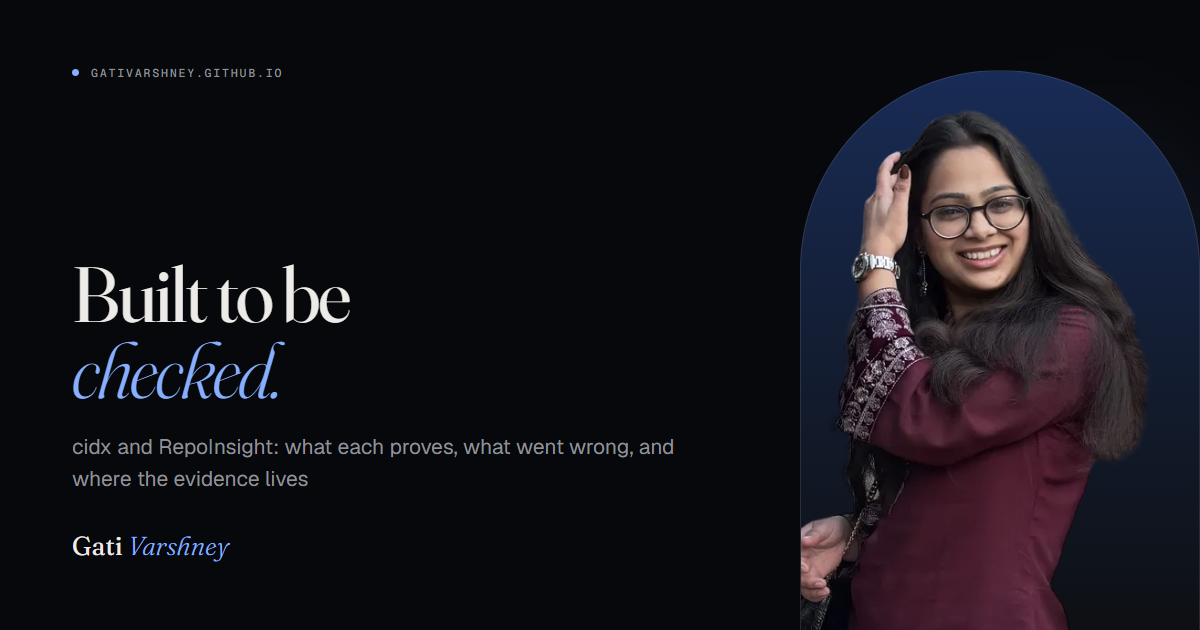
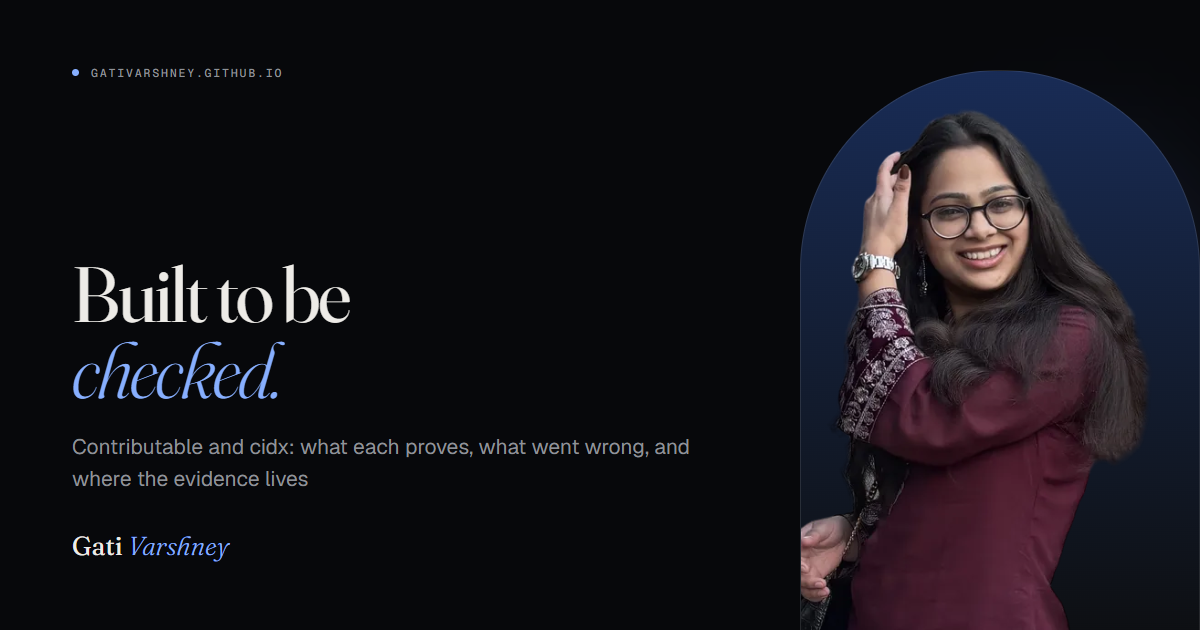
Rename RepoInsight to Contributable (new URL, repository and current facts) and list it before cidx

Changed region(s): [[0.0617, 0.6937, 0.5858, 0.7238]]

diff --git a/src/data/casestudies.ts b/src/data/casestudies.ts
@@ -1,7 +1,7 @@
 /**
  * Long-form case-study content. Every number here traces to a linked source.
  * Sources: cidx README, ARCHITECTURE.md, DECISIONS.md, CHANGELOG.md, docs/verification.md;
- * GSoC 2026 final report on Medium; OpenPrinting PRs #224, #230, #236; the RepoInsight README and source.
+ * GSoC 2026 final report on Medium; OpenPrinting PRs #224, #230, #236; the Contributable README and source.
  */
 export type Row = { claim: string; value: string; context: string; source: { label: string; href: string } };
 export type Block = { title: string; body: string };
@@ -19,7 +19,7 @@ export type CaseStudy = {
 };
 
 const CIDX = 'https://github.com/gativarshney/cidx';
-const RI = 'https://github.com/gativarshney/repoinsight';
+const RI = 'https://github.com/gativarshney/contributable';
 const OP = 'https://github.com/OpenPrinting/openprinting.github.io/pull/';
 const REPORT = 'https://medium.com/@gativarshney/gsoc-2026-final-report-ai-driven-printer-compatibility-recommendation-portal-9283d6fe2a5c';
 const STAGING = 'https://github.com/rudra-iitm/openprinting.github.io/pull/';
@@ -84,63 +84,65 @@ export const caseStudies: Record<string, CaseStudy> = {
     lastVerified: '2026-09-16',
   },
 
-  repoinsight: {
-    slug: 'repoinsight',
+  contributable: {
+    slug: 'contributable',
     problem: [
-      'Before a first pull request, a contributor has to guess what a project is like. Is anyone replying? Do pull requests from outside the team get merged? Is there something small to start on? Finding out usually means clicking through commits, contributors, releases, issues and pull requests and forming an impression.',
-      'RepoInsight reads the same public data and answers those questions directly. It is deliberately not a chatbot, and it does not produce a health score. Every number is calculated by a fixed rule, and every answer can be opened to show what was observed, the formula, why it matters, and what it does not prove.',
+      'Before a first pull request, a contributor has to guess what a project is like. Is anyone replying? Do pull requests from outside the team get merged? Is there something small to start on? Finding out usually means clicking through commits, issues and pull requests and forming an impression.',
+      'Contributable reads the same public data and answers the questions a contributor is advised to ask first. It is deliberately not a chatbot, not a GitHub clone, and it does not produce a health score. Every answer is calculated by a fixed rule and shows how it was worked out.',
     ],
     pipeline: {
-      title: 'From a pasted URL to an answer with its evidence',
+      title: 'From a pasted URL to an answer you can check',
       steps: [
-        'A small client talks to the GitHub REST API: an auth header when a server token exists, error mapping, pagination headers. Fetchers call eleven endpoints, in parallel where they are independent, and normalise the responses into typed records that carry their own coverage: complete, or covered since a date.',
-        'Analysis functions are pure. They take structured input plus an explicit “now”, with no React and no network, so the same dataset always produces the same numbers and every function can be tested on its own.',
-        'A checklist of ten questions, taken from GitHub’s Open Source Guide, is answered from those numbers. Each has a stated threshold, and where the data cannot decide, the answer is “unknown” rather than a guess.',
-        'A report runner orchestrates the requests, caches finished reports so a popular repository costs GitHub requests once, and emits progress events.',
-        'The analyze endpoint streams those events to the browser as newline-delimited JSON, so the loading screen shows one line per real request group instead of a spinner.',
-        'The report leads with the checklist, then starter issues, where outside pull requests ended up, the maintainers who reply, when they are usually around in the reader’s time zone, and a 3D skyline drawn from the repository’s real daily commit counts.',
+        'A small client talks to the GitHub REST API: error mapping, pagination headers, an auth header when a server token exists. Fetchers call twelve endpoints, in parallel where they are independent, and normalise the responses into typed records that carry their own coverage: complete, or covered since a date.',
+        'Analysis functions are pure. They take structured input plus an explicit “now”, with no React and no network, so the same dataset always gives the same result and every function can be tested alone. Because they run wherever fetch does, the browser can take over from the server.',
+        'A checklist of ten questions, taken from GitHub’s Open Source Guide, is answered from those numbers. Each has one fixed rule printed in the report, and there are three answers: yes, no, and not enough data.',
+        'A report runner orchestrates the requests and emits progress events.',
+        'The analyze endpoint caches finished reports for an hour, throttles any one address, and streams events to the browser as newline-delimited JSON, so the loading screen ticks off each real request group instead of showing a spinner.',
+        'The report has seven sections, each answering one question with one chart: the checklist, where to start, what happens to a pull request, who you will work with, when someone will see your question, the codebase, and whether the project is alive, with a 3D skyline of daily commits.',
       ],
       note: 'Calculated, not generated.',
     },
     evidence: [
-      { claim: 'Live, with no sign-in', value: 'repoinsight-app.vercel.app', context: 'paste any public GitHub repository; the visitor is never asked for an account or a token', source: { label: 'open the app', href: 'https://repoinsight-app.vercel.app' } },
-      { claim: 'Test suite', value: '74 tests', context: 'URL parsing, HTTP error mapping, pagination and coverage, and every analysis function including empty and truncated data; passing from a fresh clone on 2026-10-01', source: { label: 'src/lib', href: `${RI}/tree/main/src/lib` } },
-      { claim: 'Contributor checklist', value: '10 questions', context: 'after GitHub’s Open Source Guide; each answered yes, no or unknown against a threshold printed in the report', source: { label: 'checklist.ts', href: `${RI}/blob/main/src/lib/insights/checklist.ts` } },
-      { claim: 'Data read per report', value: '11 GitHub REST endpoints', context: 'about 12 requests for a small repository, up to about 45 for a large one', source: { label: 'README · data sources', href: `${RI}#github-data-sources` } },
+      { claim: 'Live, with no sign-in', value: 'contributable.vercel.app', context: 'paste any public GitHub repository; the visitor is never asked for an account or a token', source: { label: 'open the app', href: 'https://contributable.vercel.app' } },
+      { claim: 'Test suite', value: '118 tests', context: 'unit, integration against a stubbed GitHub, and pipeline tests; CI runs formatting, lint, typecheck, tests and a production build on every push. Passing from a fresh clone on 2026-10-03', source: { label: 'README · testing', href: `${RI}#testing` } },
+      { claim: 'Contributor checklist', value: '10 questions', context: 'after GitHub’s Open Source Guide; each answered yes, no or not enough data against a rule printed in the report', source: { label: 'checklist.ts', href: `${RI}/blob/main/src/lib/insights/checklist.ts` } },
+      { claim: 'Data read per report', value: '12 GitHub REST endpoints', context: 'a small repository costs 11 or 12 requests, plus one for each starter issue checked, four at most', source: { label: 'README · data sources', href: `${RI}#github-data-sources` } },
       { claim: 'Running cost', value: 'no database · no paid API · no AI', context: 'the only limit is GitHub’s free allowance: 60 requests an hour without a token, 5,000 with one', source: { label: 'README · cost and scaling', href: `${RI}#cost-and-scaling` } },
-      { claim: 'Grounded in research', value: '4 cited sources', context: 'newcomer barriers, abandoned pull requests, time to first response, and GitHub’s Open Source Survey, each mapped to something the report measures', source: { label: 'README · for contributors', href: `${RI}#for-contributors` } },
-      { claim: 'Stack', value: 'TypeScript · Next.js 16 · React 19 · three.js', context: '39 commits; deployed on Vercel’s free tier', source: { label: 'commit history', href: `${RI}/commits/main` } },
+      { claim: 'Grounded in research', value: '4 cited sources', context: 'newcomer barriers, abandoned pull requests, time to first response, and GitHub’s Open Source Survey, each mapped to something the report measures', source: { label: 'README · why it exists', href: `${RI}#why-it-exists` } },
+      { claim: 'Stack and licence', value: 'TypeScript · Next.js 16 · React 19 · three.js', context: '54 commits; MIT licence; deployed on Vercel’s free tier', source: { label: 'commit history', href: `${RI}/commits/main` } },
     ],
     decisions: [
-      { title: 'A count of checks, not a health score', body: 'The headline is the number of checks that pass, not a weighted score. A single number would hide which signal is missing; ten yes-or-no answers can each be opened and checked.' },
-      { title: 'Fixed rules, nothing generated', body: 'Every metric is a formula over public data. That makes a report reproducible, testable, and free to run, and it means two people looking at the same repository see the same answer.' },
-      { title: 'Evidence in four parts', body: 'Each metric separates what was observed, the calculation, why it matters, and its limitation, so a reader can tell a measurement from an interpretation.' },
-      { title: 'A bot is not a reply', body: 'Research on pull requests finds that bots often post the first response. Time to first response therefore counts only another person’s comment, an inline review comment, or the merge.' },
-      { title: 'A dash instead of a partial number', body: 'Lists carry coverage information. A window is reported only if the fetched data is known to be complete back to its start; otherwise the report shows a dash rather than a smaller, wrong total.' },
-      { title: 'Three ways to stretch a free API', body: 'A server token raises the allowance from 60 to 5,000 requests an hour. Finished reports are shared between visitors. And if the server’s allowance runs out, the visitor’s own browser reads GitHub directly, so that path grows with the audience instead of being divided among it.' },
+      { title: 'A count of checks, not a health score', body: 'The headline is the number of rules that pass. It is not weighted and it is not a score. A single number would hide which signal is missing; ten answers can each be opened and checked.' },
+      { title: 'Fixed rules, nothing generated', body: 'Every figure is a formula over public data. That makes a report reproducible, testable, and free to run, and it means two people looking at the same repository see the same answer.' },
+      { title: 'A yes can be proven, a no cannot', body: 'Very busy repositories have more history than the reading limit allows. A list cut short is still exact for the period it covers, so a rule of the form “at least N” is answered yes as soon as the partial count reaches N. A no is only given when the whole period was read. Otherwise the answer is “not enough data”, which is never shown as a no.' },
+      { title: 'A bot is not a reply', body: 'Research on pull requests finds that bots often post the first response. A first reply therefore counts only another person’s comment, an inline review comment, or the merge.' },
+      { title: 'Timing is a project pattern, never one person’s', body: 'The week-by-hour heatmap pools every team comment and is never broken down by person. It is dropped when fewer than three team members commented, because it would then be one maintainer’s schedule.' },
+      { title: 'Four ways to stretch a free API', body: 'A server token raises the allowance from 60 to 5,000 requests an hour. Finished reports are cached for an hour and shared between visitors. If the server’s allowance runs out, the visitor’s own browser reads GitHub directly, so that path grows with the audience instead of being divided among it. And one address may start 20 fresh analyses in ten minutes before it is sent down that same path.' },
     ],
     wentWrong: [
-      { title: 'Busy repositories produced partial numbers', body: 'Very active repositories exceed the page limit, so a 30 or 90 day window was only partly fetched and its total came out too small. Lists now record whether they are complete and how far back they reach, and a window the data does not cover is not reported.' },
-      { title: 'Answered pull requests looked unanswered', body: 'The first version read only conversation comments, so a pull request answered through inline review looked ignored. Inline review comments are now fetched too, and coverage is the shallower of the two lists. A review that only approves, without a comment, is still not seen.' },
-      { title: 'Every visitor shared one rate limit', body: 'Without a token, all visitors drew on the same 60 requests an hour. The fix came in three parts: a server token, a shared cache of finished reports, and the fallback to the visitor’s own allowance.' },
-      { title: 'The tests did not run on a fresh install', body: 'The lockfile was incomplete, so a clean install could not run the suite. It was regenerated, and the 74 tests pass from a fresh clone.' },
+      { title: 'Busy repositories produced partial numbers', body: 'Very active repositories exceed the page limit, so a 30 or 90 day window was only partly fetched and its total came out too small. Lists now record whether they are complete and how far back they reach, which is what the partial-data rules are built on.' },
+      { title: 'Answered pull requests looked unanswered', body: 'The first version read only conversation comments, so a pull request answered through inline review looked ignored. Inline review comments are now fetched too. A review that only approves, without a comment, is still not seen.' },
+      { title: 'Projects with modern issue templates were told they had none', body: 'GitHub’s community profile only reports the old single-file issue template. When it reports none, the .github/ISSUE_TEMPLATE folder is now checked directly; without that, most projects with template folders or issue forms were shown as missing them.' },
+      { title: 'Reply timing could have shown one person’s schedule', body: 'In a small project the heatmap of when the team comments was effectively one maintainer’s working hours. It is now shown only as a pooled pattern from three or more people.' },
+      { title: 'Every visitor shared one rate limit', body: 'Without a token, all visitors drew on the same 60 requests an hour. The fix came in stages: a server token, a shared cache of finished reports, the fallback to the visitor’s own allowance, and a per-address throttle.' },
     ],
     limitations: [
       'Public data only. Private forks, internal trackers and chat are invisible.',
-      'Very active repositories exceed the page limit; longer windows are then not reported.',
-      'A review that only approves, without a comment, is not read, so some answered pull requests look unanswered.',
+      'Replies are seen as comments and merges. A review that only approves, without a comment, is not read, so some answered pull requests show as “closed, no reply seen”.',
       'Only GitHub’s two default starter labels are checked. Projects with their own labels show no starter issues.',
+      'Closed without merging includes withdrawn, duplicate and low-quality submissions.',
+      'Organisation members with private membership cannot be told apart from community authors.',
       'Tone is not measured. Nothing here tells you whether a community is welcoming.',
       'Activity is not quality. Nothing here measures correctness, security or test coverage.',
-      'The source is published so it can be read and evaluated; it is not open source.',
     ],
     next: [
-      'Exact window totals for very large repositories.',
+      'Read approving reviews, so pull requests answered only by a review count as answered.',
+      'Show who actually merges, to reveal when review depends on one person.',
+      'Detect a project’s own starter labels instead of only GitHub’s defaults.',
       'Tag-based release detection when a project does not use GitHub Releases.',
-      'Side-by-side comparison of two repositories.',
-      'Shareable report snapshots.',
+      'Shareable, versioned report snapshots.',
     ],
-    lastVerified: '2026-10-01',
+    lastVerified: '2026-10-03',
   },
 
   'printer-recommendations': {

diff --git a/src/data/site.ts b/src/data/site.ts
@@ -24,8 +24,8 @@ export const site = {
     cidxRepo: 'https://github.com/gativarshney/cidx',
     cidxPypi: 'https://pypi.org/project/cidx/',
     cidxSite: 'https://cidx.vercel.app',
-    repoinsightApp: 'https://repoinsight-app.vercel.app',
-    repoinsightRepo: 'https://github.com/gativarshney/repoinsight',
+    contributableApp: 'https://contributable.vercel.app',
+    contributableRepo: 'https://github.com/gativarshney/contributable',
     wocVerify: 'https://verification.givemycertificate.com/v/74e4dfe9-cda1-4508-9b55-c815e35a3749',
   },
 };
@@ -40,7 +40,7 @@ export const nav = [
 
 export type Evidence = { value: string; label: string };
 export type Link = { label: string; href: string; external?: boolean };
-export type VisualKind = 'cidx' | 'printers' | 'openprinting' | 'gsoc' | 'quinque' | 'search' | 'repoinsight';
+export type VisualKind = 'cidx' | 'printers' | 'openprinting' | 'gsoc' | 'quinque' | 'search' | 'contributable';
 export type Tone = 'ok' | 'warn' | 'accent' | 'plain';
 
 export type Entry = {
@@ -136,6 +136,29 @@ export const milestones: Entry[] = [
 /* ------------------------------------------------------------------ */
 export const projects: Entry[] = [
   {
+    slug: 'contributable',
+    title: 'Contributable',
+    kicker: 'Personal project · web app for open source contributors',
+    period: 'Oct 2026',
+    status: { label: 'Live on Vercel', tone: 'ok' },
+    tags: ['TypeScript', 'Next.js 16', 'React 19', 'three.js', 'GitHub REST API', 'MIT'],
+    summary:
+      'Know a repository before your first pull request. Paste a public GitHub repository and it reports where to start, who maintains it, how fast people reply, and whether outside pull requests actually get merged. Every answer is calculated by a fixed rule from public data and shows how it was worked out; there is no AI and no health score.',
+    evidence: [
+      { value: '10', label: 'checklist questions, each with its rule' },
+      { value: '118', label: 'tests' },
+      { value: '0', label: 'databases, paid APIs or AI services' },
+    ],
+    links: [
+      { label: 'Case study', href: '/projects/contributable/' },
+      { label: 'Open the app', href: site.links.contributableApp, external: true },
+      { label: 'Example report', href: `${site.links.contributableApp}/sample`, external: true },
+      { label: 'Repository', href: site.links.contributableRepo, external: true },
+    ],
+    visual: 'contributable',
+    href: '/projects/contributable/',
+  },
+  {
     slug: 'cidx',
     title: 'cidx',
     kicker: 'Personal project · developer tool',
@@ -158,29 +181,6 @@ export const projects: Entry[] = [
     ],
     visual: 'cidx',
     href: '/projects/cidx/',
-  },
-  {
-    slug: 'repoinsight',
-    title: 'RepoInsight',
-    kicker: 'Personal project · web app for open source contributors',
-    period: 'Oct 2026',
-    status: { label: 'Live on Vercel', tone: 'ok' },
-    tags: ['TypeScript', 'Next.js 16', 'React 19', 'three.js', 'GitHub REST API'],
-    summary:
-      'Know a repository before your first pull request. Paste a public GitHub repository and it reports where to start, who maintains it, how fast people reply, and whether outside pull requests actually get merged. Every answer is calculated by a fixed rule and shows its evidence; there is no AI and no health score.',
-    evidence: [
-      { value: '10', label: 'checklist questions, each with its rule' },
-      { value: '74', label: 'tests' },
-      { value: '0', label: 'databases, paid APIs or AI services' },
-    ],
-    links: [
-      { label: 'Case study', href: '/projects/repoinsight/' },
-      { label: 'Open the app', href: site.links.repoinsightApp, external: true },
-      { label: 'Example report', href: `${site.links.repoinsightApp}/sample`, external: true },
-      { label: 'Repository', href: site.links.repoinsightRepo, external: true },
-    ],
-    visual: 'repoinsight',
-    href: '/projects/repoinsight/',
   },
 ];
 

diff --git a/src/data/diagrams.ts b/src/data/diagrams.ts
@@ -41,23 +41,23 @@ export const diagrams: Record<string, Diagram> = {
     ],
   },
 
-  // after the Architecture section of the RepoInsight README and src/lib
-  repoinsight: {
-    alt: 'RepoInsight architecture: a client and fetchers read the GitHub REST API into typed records; pure analysis functions calculate metrics; a checklist is answered from them; a report runner caches and emits progress; an endpoint streams events to the browser, which renders the report.',
+  // after the Architecture section of the Contributable README and src/lib
+  contributable: {
+    alt: 'Contributable architecture: a client and fetchers read the GitHub REST API into typed records; pure analysis functions calculate metrics; a checklist is answered from them; a report runner emits progress; an endpoint caches, throttles and streams events to the browser, which renders the report.',
     rows: [
-      { source: { id: 'gh', label: 'GitHub REST API', sub: 'public data · eleven endpoints · no visitor token', subN: 'public data · 11 endpoints' } },
+      { source: { id: 'gh', label: 'GitHub REST API', sub: 'public data · twelve endpoints · no visitor token', subN: 'public data · 12 endpoints' } },
       { full: { id: 'fetch', n: '01', label: 'Client and fetchers', sub: 'error mapping, pagination · typed records that carry their own coverage', subN: 'typed records, with coverage' } },
       { full: { id: 'analysis', n: '02', label: 'Analysis', sub: 'pure functions with an explicit “now” · no React, no network', subN: 'pure functions · explicit now' } },
       {
-        left: { id: 'metrics', n: '02', label: 'Metrics', sub: 'activity, people, issues, pull requests, releases', subN: 'six signal areas' },
-        right: { id: 'checklist', n: '03', label: 'Checklist', sub: 'ten questions · yes, no or unknown, each by a rule', subN: 'ten questions' },
+        left: { id: 'metrics', n: '02', label: 'Metrics', sub: 'replies, pull request outcomes, people, timing', subN: 'the figures' },
+        right: { id: 'checklist', n: '03', label: 'Checklist', sub: 'ten questions · yes, no or not enough data', subN: 'ten questions' },
       },
-      { full: { id: 'run', n: '04', label: 'Report runner', sub: 'orchestration · shared cache of finished reports · progress events', subN: 'cache · progress events' } },
-      { full: { id: 'api', n: '05', label: '/api/analyze', sub: 'streams newline-delimited JSON, one event per real request group', subN: 'streams NDJSON events' } },
-      { full: { id: 'ui', n: '06', label: 'Report, in the browser', sub: 'checklist, people, timing, pull request journey, 3D commit skyline · evidence on every number', subN: 'answers with evidence', accent: true } },
+      { full: { id: 'run', n: '04', label: 'Report runner', sub: 'orchestration · progress events · runs on the server or in the browser', subN: 'orchestration · progress' } },
+      { full: { id: 'api', n: '05', label: '/api/analyze', sub: 'hour-long shared cache · per-address throttle · NDJSON stream', subN: 'cache · throttle · stream' } },
+      { full: { id: 'ui', n: '06', label: 'Report, in the browser', sub: 'seven sections, one question and one chart each · 3D commit skyline', subN: 'seven sections, one chart each', accent: true } },
     ],
     edges: [
-      { from: 'gh', to: 'fetch', label: '12 to ~45 requests', labelN: 'requests' },
+      { from: 'gh', to: 'fetch', label: 'in parallel', labelN: 'requests' },
       { from: 'fetch', to: 'analysis', label: 'typed records', labelN: 'records' },
       { from: 'analysis', to: 'metrics' },
       { from: 'analysis', to: 'checklist' },
